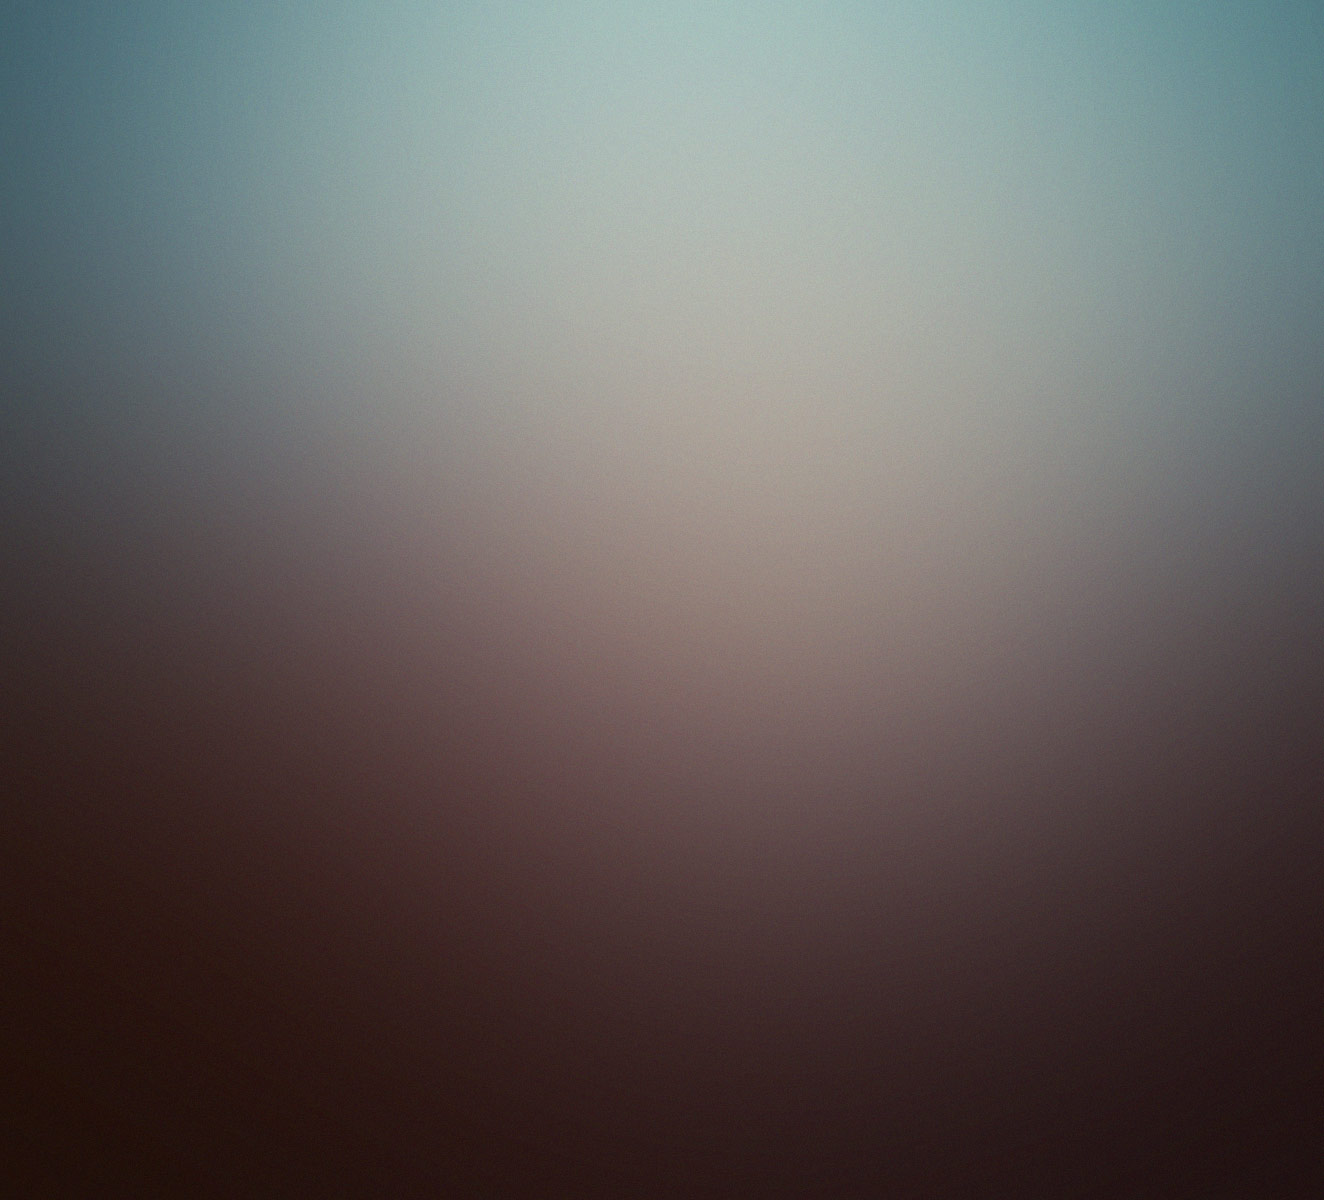
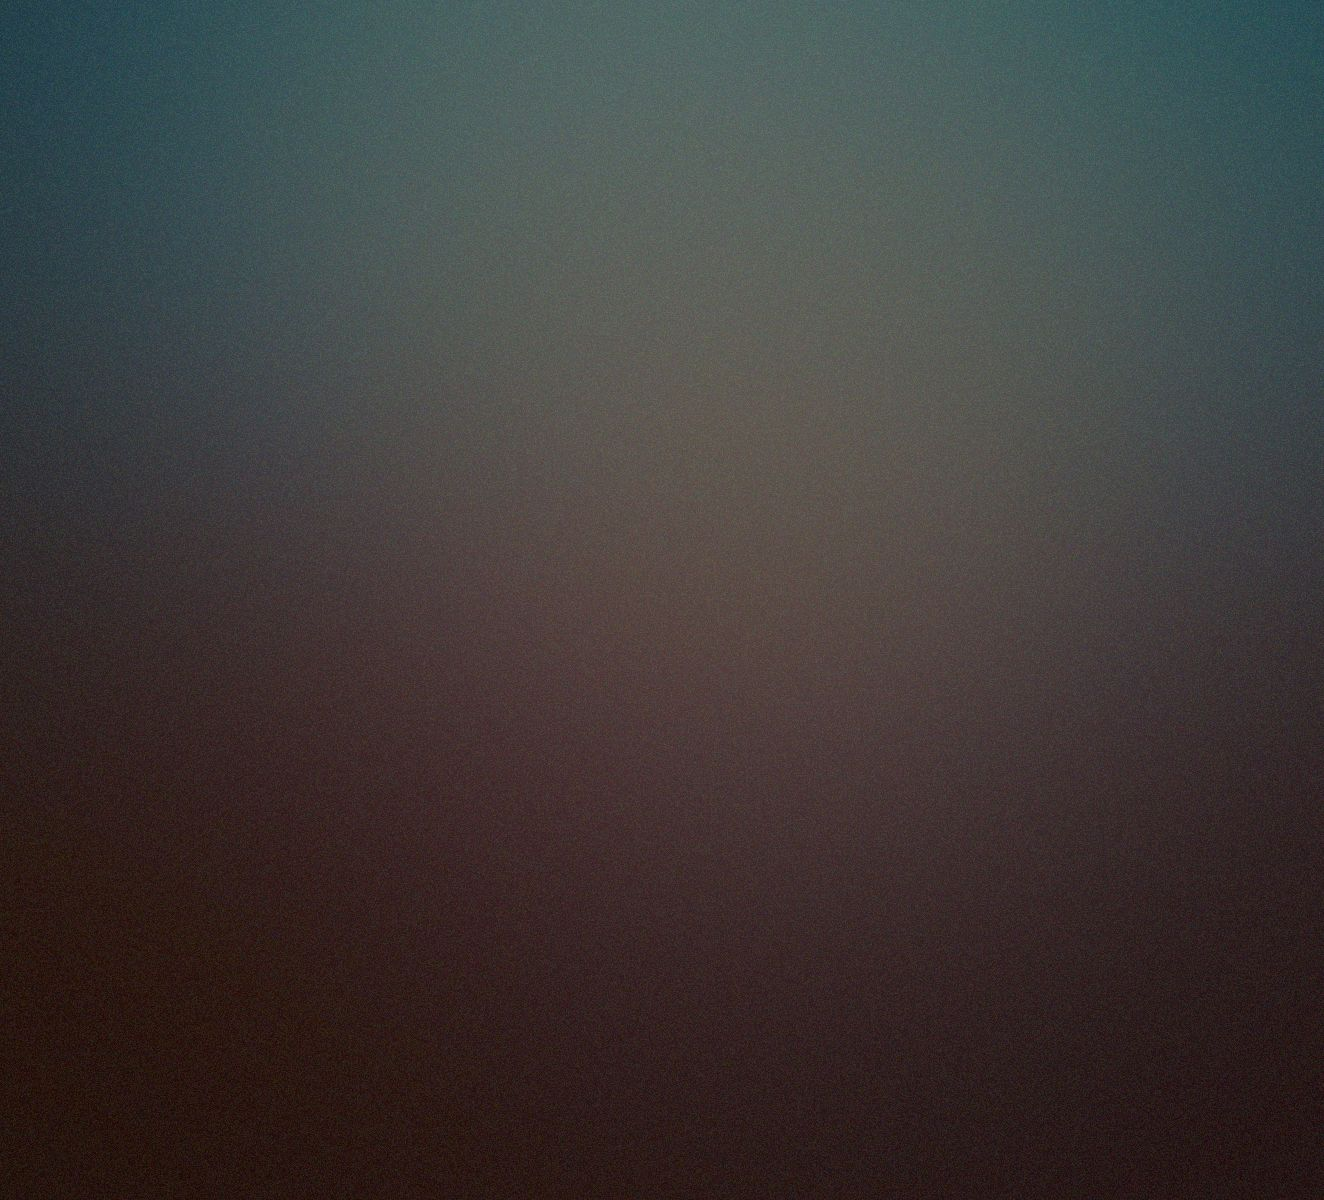
First LIVE ready version

diff --git a/docs/index.html b/docs/index.html
@@ -2,9 +2,9 @@
 <!--
 	Parallelism by HTML5 UP
 	html5up.net | @ajlkn
-	Free for personal and commercial use under the CCA 3.0 license (html5up.net/license)
+	Free for personal and commercial use under the CCA 3.0 licence (html5up.net/license)
 -->
-<html>
+<html lang="fr">
 	<head>
 		<title>Bilodeau Basses</title>
 		<meta charset="utf-8" />
@@ -20,88 +20,52 @@
 
 				<!-- Main -->
 					<section id="main">
-
 						<!-- Items -->
 							<div class="items">
-
 								<div class="item intro span-3">
 									<i class="icon-bilodeau"></i>
 									<div class="inner">
 										<h1>Bilodeau&nbsp;basses</h1>
 									</div>
 								</div>
-
-								<article class="item thumb span-1">
-									<h2>0 You really got me</h2>
-									<a href="images/fulls/01.jpg" class="image"><img src="images/thumbs/01.jpg" alt=""></a>
-								</article>
-
-								<article class="item thumb span-1">
-									<h2>0 Ad Infinitum</h2>
-									<a href="images/fulls/02.jpg" class="image"><img src="images/thumbs/02.jpg" alt=""></a>
-								</article>
-
-								<article class="item thumb span-1">
-									<h2>0 Different.</h2>
-									<a href="images/fulls/03.jpg" class="image"><img src="images/thumbs/03.jpg" alt=""></a>
-								</article>
-
-								<article class="item thumb span-1">
-									<h2>0 Elysium</h2>
-									<a href="images/fulls/04.jpg" class="image"><img src="images/thumbs/04.jpg" alt=""></a>
-								</article>
-
-								<article class="item thumb span-1">
-									<h2>0 Kingdom of the Wind</h2>
-									<a href="images/fulls/05.jpg" class="image"><img src="images/thumbs/05.jpg" alt=""></a>
-								</article>
-
-								<article class="item thumb span-1">
-									<h2>0 The Pursuit</h2>
-									<a href="images/fulls/06.jpg" class="image"><img src="images/thumbs/06.jpg" alt=""></a>
-								</article>
-
-								<article class="item thumb span-1">
-									<h2>0 Boundless</h2>
-									<a href="images/fulls/07.jpg" class="image"><img src="images/thumbs/07.jpg" alt=""></a>
-								</article>
-
-								<article class="item thumb span-1">
-									<h2>0 The Spectators</h2>
-									<a href="images/fulls/08.jpg" class="image"><img src="images/thumbs/08.jpg" alt=""></a>
-								</article>
-
+								<article class="item thumb span-1 delay-1"><a href="images/fulls/008_3.jpg" class="image"><img src="images/thumbs/008_3.jpg" alt="Bilodeau bass #008"></a></article>
+								<article class="item thumb span-2 delay-2"><a href="images/fulls/267A0675.jpg" class="image"><img src="images/thumbs/267A0675.jpg" alt=""></a></article>
+								<article class="item thumb span-2 delay-4"><a href="images/fulls/267A0706.jpg" class="image"><img src="images/thumbs/267A0706.jpg" alt=""></a></article>
 							</div>
-
-						<!-- Items -->
 							<div class="items">
-
-								<article class="item thumb span-1"><h2>1 Kingdom of the Wind</h2><a href="images/fulls/05.jpg" class="image"><img src="images/thumbs/05.jpg" alt=""></a></article>
-								<article class="item thumb span-1"><h2>1 The Pursuit</h2><a href="images/fulls/06.jpg" class="image"><img src="images/thumbs/06.jpg" alt=""></a></article>
-								<article class="item thumb span-1"><h2>1 Boundless</h2><a href="images/fulls/07.jpg" class="image"><img src="images/thumbs/07.jpg" alt=""></a></article>
-								<article class="item thumb span-1"><h2>1 The Spectators</h2><a href="images/fulls/08.jpg" class="image"><img src="images/thumbs/08.jpg" alt=""></a></article>
-								<article class="item thumb span-1"><h2>1 You really got me</h2><a href="images/fulls/01.jpg" class="image"><img src="images/thumbs/01.jpg" alt=""></a></article>
-								<article class="item thumb span-1"><h2>1 Ad Infinitum</h2><a href="images/fulls/02.jpg" class="image"><img src="images/thumbs/02.jpg" alt=""></a></article>
-								<article class="item thumb span-1"><h2>1 Different.</h2><a href="images/fulls/03.jpg" class="image"><img src="images/thumbs/03.jpg" alt=""></a></article>
-								<article class="item thumb span-1"><h2>1 Kingdom of the Wind</h2><a href="images/fulls/05.jpg" class="image"><img src="images/thumbs/05.jpg" alt=""></a></article>
-								<article class="item thumb span-1"><h2>1 Elysium</h2><a href="images/fulls/04.jpg" class="image"><img src="images/thumbs/04.jpg" alt=""></a></article>
-
+								<article class="item thumb span-1 delay-3"><a href="images/fulls/267A6359.jpg" class="image"><img src="images/thumbs/267A6359.jpg" alt=""></a></article>
+								<article class="item thumb span-1 delay-2"><a href="images/fulls/267A6469.jpg" class="image"><img src="images/thumbs/267A6469.jpg" alt=""></a></article>
+								<article class="item thumb span-2 delay-1"><a href="images/fulls/5.jpg" class="image"><img src="images/thumbs/5.jpg" alt=""></a></article>
+								<article class="item thumb span-1 delay-4"><a href="images/fulls/IMG_0184.jpg" class="image"><img src="images/thumbs/IMG_0184.jpg" alt=""></a></article>
+								<article class="item thumb span-1 delay-2"><a href="images/fulls/IMG_0274.jpg" class="image"><img src="images/thumbs/IMG_0274.jpg" alt=""></a></article>
 							</div>
-
 							<div class="items">
-
-								<article class="item thumb span-1"><h2>2 Kingdom of the Wind</h2><a href="images/fulls/05.jpg" class="image"><img src="images/thumbs/05.jpg" alt=""></a></article>
-								<article class="item thumb span-1"><h2>2 The Pursuit</h2><a href="images/fulls/06.jpg" class="image"><img src="images/thumbs/06.jpg" alt=""></a></article>
-								<article class="item thumb span-1"><h2>2 Boundless</h2><a href="images/fulls/07.jpg" class="image"><img src="images/thumbs/07.jpg" alt=""></a></article>
-								<article class="item thumb span-1"><h2>2 The Spectators</h2><a href="images/fulls/08.jpg" class="image"><img src="images/thumbs/08.jpg" alt=""></a></article>
-								<article class="item thumb span-1"><h2>2 You really got me</h2><a href="images/fulls/01.jpg" class="image"><img src="images/thumbs/01.jpg" alt=""></a></article>
-								<article class="item thumb span-1"><h2>2 Ad Infinitum</h2><a href="images/fulls/02.jpg" class="image"><img src="images/thumbs/02.jpg" alt=""></a></article>
-								<article class="item thumb span-1"><h2>2 Different.</h2><a href="images/fulls/03.jpg" class="image"><img src="images/thumbs/03.jpg" alt=""></a></article>
-								<article class="item thumb span-1"><h2>2 Kingdom of the Wind</h2><a href="images/fulls/05.jpg" class="image"><img src="images/thumbs/05.jpg" alt=""></a></article>
-								<article class="item thumb span-1"><h2>2 Elysium</h2><a href="images/fulls/04.jpg" class="image"><img src="images/thumbs/04.jpg" alt=""></a></article>
-
+								<article class="item thumb span-2 delay-1"><a href="images/fulls/IMG_0288.jpg" class="image"><img src="images/thumbs/IMG_0288.jpg" alt=""></a></article>
+								<article class="item thumb span-2 delay-3"><a href="images/fulls/IMG_0639.jpg" class="image"><img src="images/thumbs/IMG_0639.jpg" alt=""></a></article>
+								<article class="item thumb span-2 delay-2"><a href="images/fulls/IMG_0646.jpg" class="image"><img src="images/thumbs/IMG_0646.jpg" alt=""></a></article>
+								<article class="item thumb span-1 delay-4"><a href="images/fulls/IMG_1230.jpg" class="image"><img src="images/thumbs/IMG_1230.jpg" alt=""></a></article>
 							</div>
-
+							<div class="items">
+								<article class="item thumb span-1 delay-2"><a href="images/fulls/IMG_2275.jpg" class="image"><img src="images/thumbs/IMG_2275.jpg" alt=""></a></article>
+								<article class="item thumb span-2 delay-1"><a href="images/fulls/IMG_2340.jpg" class="image"><img src="images/thumbs/IMG_2340.jpg" alt=""></a></article>
+								<article class="item thumb span-1 delay-4"><a href="images/fulls/img_2694.jpg" class="image"><img src="images/thumbs/img_2694.jpg" alt=""></a></article>
+								<article class="item thumb span-1 delay-3"><a href="images/fulls/IMG_3669.jpg" class="image"><img src="images/thumbs/IMG_3669.jpg" alt=""></a></article>
+								<article class="item thumb span-1 delay-1"><a href="images/fulls/IMG_3685.jpg" class="image"><img src="images/thumbs/IMG_3685.jpg" alt=""></a></article>
+							</div>
+							<div class="items">
+								<article class="item thumb span-1 delay-3"><a href="images/fulls/IMG_3716.jpg" class="image"><img src="images/thumbs/IMG_3716.jpg" alt=""></a></article>
+								<article class="item thumb span-2 delay-1"><a href="images/fulls/IMG_3740.jpg" class="image"><img src="images/thumbs/IMG_3740.jpg" alt=""></a></article>
+								<article class="item thumb span-2 delay-4"><a href="images/fulls/IMG_4268.jpg" class="image"><img src="images/thumbs/IMG_4268.jpg" alt=""></a></article>
+								<article class="item thumb span-2 delay-2"><a href="images/fulls/IMG_4272.jpg" class="image"><img src="images/thumbs/IMG_4272.jpg" alt=""></a></article>
+							</div>
+							<div class="items">
+								<article class="item thumb span-2 delay-2"><a href="images/fulls/IMG_4281.jpg" class="image"><img src="images/thumbs/IMG_4281.jpg" alt=""></a></article>
+								<article class="item thumb span-2 delay-3"><a href="images/fulls/IMG_4285.jpg" class="image"><img src="images/thumbs/IMG_4285.jpg" alt=""></a></article>
+								<article class="item thumb span-2 delay-1"><a href="images/fulls/IMG_5129.jpg" class="image"><img src="images/thumbs/IMG_5129.jpg" alt=""></a></article>
+							</div>
+							<div class="items">
+								<article class="item thumb span-2 delay-2"><a href="images/fulls/IMG_7154.jpg" class="image"><img src="images/thumbs/IMG_7154.jpg" alt=""></a></article>
+							</div>
 					</section>
 
 				<!-- Footer -->
@@ -115,42 +79,39 @@
 								dans la vie plutôt que de m'isoler dans l'atelier. Enfin, je dois me concentrer
 								sur ma santé qui m'a causé des inquiétudes ces dernières années.
 							</p>
-							<p>Je tiens surtout à vous remercier. Sans vous, je n'aurais pas osé relever des défis de
-								taille que vous m'avez lancés. J'ai fait face à plusieurs nouveautés qui m'ont forcé
-								à acquérir de nouvelles compétences.
+							<p>Je tiens surtout à vous remercier. Sans vous, je n'aurais pas osé relever les défis de
+								taille que vous m'avez lancés.
 							</p>
 							<p><strong>Merci&nbsp;!</strong></p>
 							<p>Mathieu Bilodeau</p>
-						<hr>
+						</section>
+						<section>
 							<h2>Farewell</h2>
-							<p>After several yeasrs of inactivity, I'm making it official: it's <u>over</u>.</p>
+							<p>After several years of inactivity, I'm making it official: it's <u>over</u>.</p>
 							<p>Why? It’s a combination of factors. The pandemic shook the markets to the point where
 								it’s no longer possible to craft affordable custom musical instruments. Also, my
-								kids are growing up and I’d rather be there for them than isolate myself in the
+								kids are growing up, and I’d rather be there for them than isolate myself in the
 								workshop. Finally, I need to focus on my health, which has been a concern in recent
 								years.</p>
 							<p>Most of all, I want to thank you. Without you, I wouldn’t have dared to take on the big
-								challenges you’ve thrown my way. I’ve faced many new situations that forced me to
-								develop new skills.</p>
+								challenges you’ve thrown my way.</p>
 							<p><strong>Thank you!</strong></p>
 							<p>Mathieu Bilodeau</p>
 						</section>
-						<section>
-							<ul class="icons">
-								<li><a href="https://www.facebook.com/BilodeauBasses/" class="icon brands fa-facebook-f"><span class="label">Facebook</span></a></li>
-								<li><a href="#" class="icon brands fa-instagram"><span class="label">Instagram</span></a></li>
-							</ul>
-							<ul class="copyright">
-								<li>&copy; 2026 Bilodeau Basses</li>
-								<li>Hand made by Mathieu Bilodeau</li>
-								<li>Québec, Canada</li>
-							</ul>
-							<ul>
-								<li>Design: <a href="http://html5up.net">HTML5 UP</a></li>
-							</ul>
-						</section>
 					</section>
-
+				<footer>
+					<ul class="icons">
+						<li><a href="https://www.facebook.com/BilodeauBasses/" class="icon brands fa-facebook-f"><span class="label">Facebook</span></a></li>
+						<li><a href="#" class="icon brands fa-instagram"><span class="label">Instagram</span></a></li>
+					</ul>
+					<ul class="copyright">
+						<li>&copy; 2026 Bilodeau Basses - Hand made by Mathieu Bilodeau in Québec, Canada</li>
+					</ul>
+					<ul>
+						<li>Design by <a href="https://html5up.net">HTML5 UP</a></li>
+						<li>Hosted by <a href="https://github.com">GitHub • Social coding</a></li>
+					</ul>
+				</footer>
 			</div>
 
 		<!-- Scripts -->
@@ -160,6 +121,5 @@
 			<script src="assets/js/breakpoints.min.js"></script>
 			<script src="assets/js/util.js"></script>
 			<script src="assets/js/main.js"></script>
-
 	</body>
 </html>

diff --git a/docs/assets/css/main.css b/docs/assets/css/main.css
@@ -628,7 +628,7 @@ input, select, textarea {
 
 /* Header */
 
-	#footer {
+	#footer, footer {
 		width: 100%;
 		padding: 1.5em;
 		display: -moz-flex;
@@ -641,6 +641,10 @@ input, select, textarea {
 		justify-content: space-between;
 		position: relative;
 		z-index: 10002;
+	}
+
+	footer {
+		background-color: #403937;
 	}
 
 		#footer > section:first-child {
@@ -755,7 +759,7 @@ input, select, textarea {
 		}
 
 		.poptrox-popup .caption {
-			position: absolute;
+			/*position: absolute;
 			bottom: 0;
 			left: 0;
 			background: #1a1f2c;
@@ -765,7 +769,8 @@ input, select, textarea {
 			line-height: 75px;
 			text-align: center;
 			font-size: 1.25em;
-			color: #fff;
+			color: #fff;*/
+			display: none !important;
 		}
 
 		.poptrox-popup .nav-next, .poptrox-popup .nav-previous {